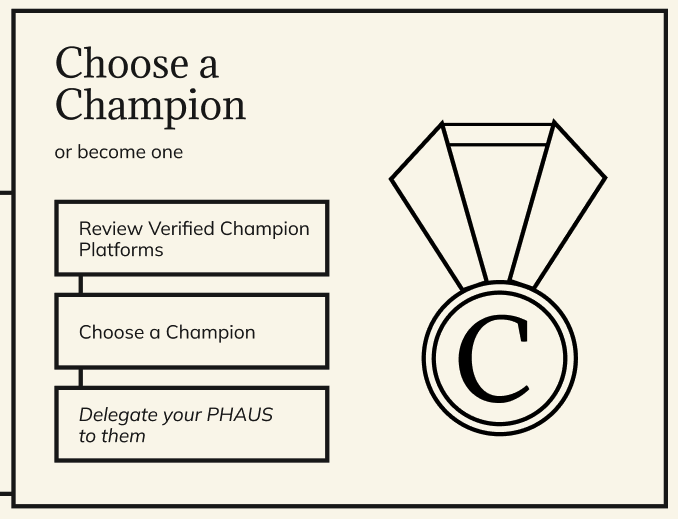
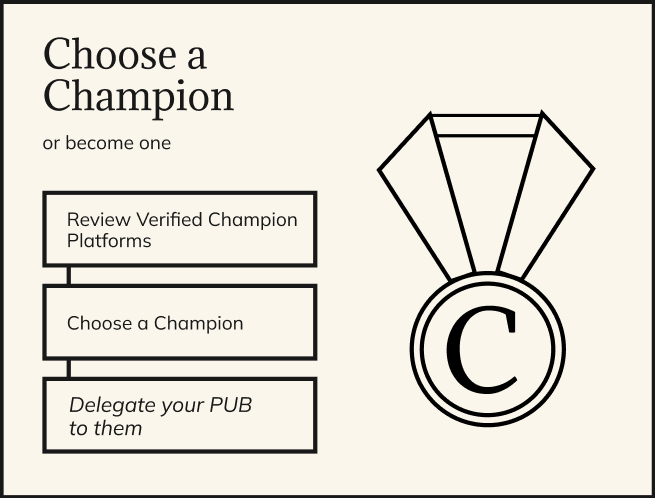
Finish RAGE tutorial & remove all references to pHAUS from images

diff --git a/docs/giving-receiving-rewards.md b/docs/giving-receiving-rewards.md
@@ -6,12 +6,62 @@ title: Giving and Receiving Rewards
 
 ---
 
-At the end of each Season, Public HAUS holds a Retroactive Grading Event (RAGE).
+### PublicHAUS Rewards Contribution Retroactively
 
-This is a time to review the work completed, and determine who has madethe most progress toward the High Level Objectives (HILOs)
+At the end of each Season, Public HAUS holds a **Retroactive Grading Event (RAGE)**.
 
-During a RAGE, Citizens and Champions may nominate others for recognition and reward.
+This is time to review work completed and determine who has made meaningful progress toward the **High Level Objectives (HILOs)**
+
+During a RAGE, Citizens and Champions may nominate themselves and others for recognition and reward.
+
+---
 
 ### Follow these steps to make a Recognition and Reward Nomination:
 
+1. **Navigate** to the [PublicHAUS Signals Page](https://signal.daohaus.fun/#/)
+2. **Select** the current RAGE event from the list.
+   - Note: RAGE events occur quarterly and last for 2 weeks.
+     <img src="/img/strategic-signal-session.png" alt="strategic-signal-session" width="600" style={{border: '2px solid white', padding: '25px'}}/>
+3. **Click** the _Add Choice_ button at the top of the list and fill out the Create Objective form.
+   <img src="/img/add-choice-button.png" alt="quickstart-summon" />
+4. **Complete** the Add Signal Choice form using this template in the form description:
+
+```
+
+PublicHAUS RAGE Event [DATE]
+
+Title: Include the project, team or person's name.
+
+Description: Include how this contribution has supported development and usage of the DAOhaus stack and the greater on-chain DAO ecosystem. Include which objectives and manifesto sections it is in line with.
+
+Link(s): Include links to the project's GitHub, Twitter or a site with more details. (Optionally include one link in the Signal form's LINK field)
+
+Tags:  Infrastructure + Dependencies | Tooling + Utilities | Education | High Level Objective | Manifesto
+
+Core Team: Names or handles of any contributors for this project
+
+Account: Any mainnet ethereum EOA, ENS, Safe or DAO treasury. It needs to be able to claim funds.
+
+```
+
+5. **Submit** the completed form.
+
+---
+
 ### Follow these steps to vote for a Recognition and Reward Nomination:
+
+1. **Navigate** to the [PublicHAUS Signals Page](https://signal.daohaus.fun/#/)
+1. **Select** the current RAGE event from the list.
+   - Note: RAGE events occur quarterly and last for 2 weeks.
+1. **Claim** your shares by pressing the Claim Points button in the top right.
+
+   - This gives you a balance of "PUB Points" equal to your current PUB Balance.
+   - These PUB Points can be used to vote on this signaling event
+     <img src="/img/claim-button.png" alt="quickstart-summon" />
+
+1. **Allocate** your PUB Points to the various RAGE nominees by allocating your points
+1. **Finalize** and **Authorize** the transaction
+
+#### Congrats, you've helped reward PublicHAUS contributors for last quarter!
+
+---

diff --git a/docs/signaling-objectives.md b/docs/signaling-objectives.md
@@ -30,12 +30,17 @@ title: Participate in Strategic Signalling Sessions
 
 ### To Signal on an existing HILO, follow these steps:
 
-1. **Claim** your shares by pressing the orange Claim button in the top right.
+1. **Claim** your shares by pressing the Claim Button in the top right.
+
    - This gives you a balance of "PUB Points" equal to your current PUB Balance.
-   - PUB Points are used to vote on HILOs
+   - These PUB Points can be used to vote on this signaling event
+     <img src="/img/claim-button.png" alt="quickstart-summon" />
+
 1. **Allocate** your PUB Points to the various HILO by typing values into the appropriate fields.
-1. **Authorize** the transaction
+1. **Finalize** and **Authorize** the transaction
 
 > **Tip:** Make sure you are confident in your allocations before you authorize the transaction. You can change your allocations, but you'll have to pay gas again.
 
 #### Congrats, you've helped decide PublicHAUS' direction for the next quarter!
+
+---

diff --git a/docs/welcome.md b/docs/welcome.md
@@ -10,7 +10,7 @@ title: Welcome
 
 ### What is PublicHaus?
 
-PublicHAUS is the governing framework of the DAOhaus ecosystem and protocol
+PublicHAUS is the governing framework of the DAOhaus ecosystem and protocol.
 
 ### Who is PublicHaus?
 
@@ -18,7 +18,8 @@ All DAOhaus contributors, supporters and enthusiasts are welcome to join PublicH
 
 ### The Goal is to Build our HAUS
 
-We are unified and moving toward a better future using Decentralized Digital Coordination.
+- We use decentralized digital coordination aided by Moloch DAO contracts and the DAOhaus SDK.
+- We work together to manage this framework so we can all move toward a decentralized, autonomous future.
 
 ### High Level Framework Goals
 

diff --git a/docs/ascending-to-champion.md b/docs/ascending-to-champion.md
@@ -26,3 +26,5 @@ title: Ascending to Champion
 1. **Click "Submit"**, verify your transaction and wait for the DAO to vote.
 
 #### Your proposal is now live and will be reviewed by the DAO membership.
+
+---

diff --git a/docs/becoming-a-citizen.md b/docs/becoming-a-citizen.md
@@ -28,3 +28,5 @@ All citizens have 2 things in common:
    - click "Stake HAUS"
 
 #### Congratulations, you're now a PublicHAUS Citizen and ready to help direct the future of the DAOhaus Protocol!
+
+---

diff --git a/docs/sponsoring-a-champion.md b/docs/sponsoring-a-champion.md
@@ -22,3 +22,5 @@ title: Sponsoring a Champion
 1. **Authorize** the transaction.
 
 #### Congrats! You've sponsored a Champion!
+
+---
